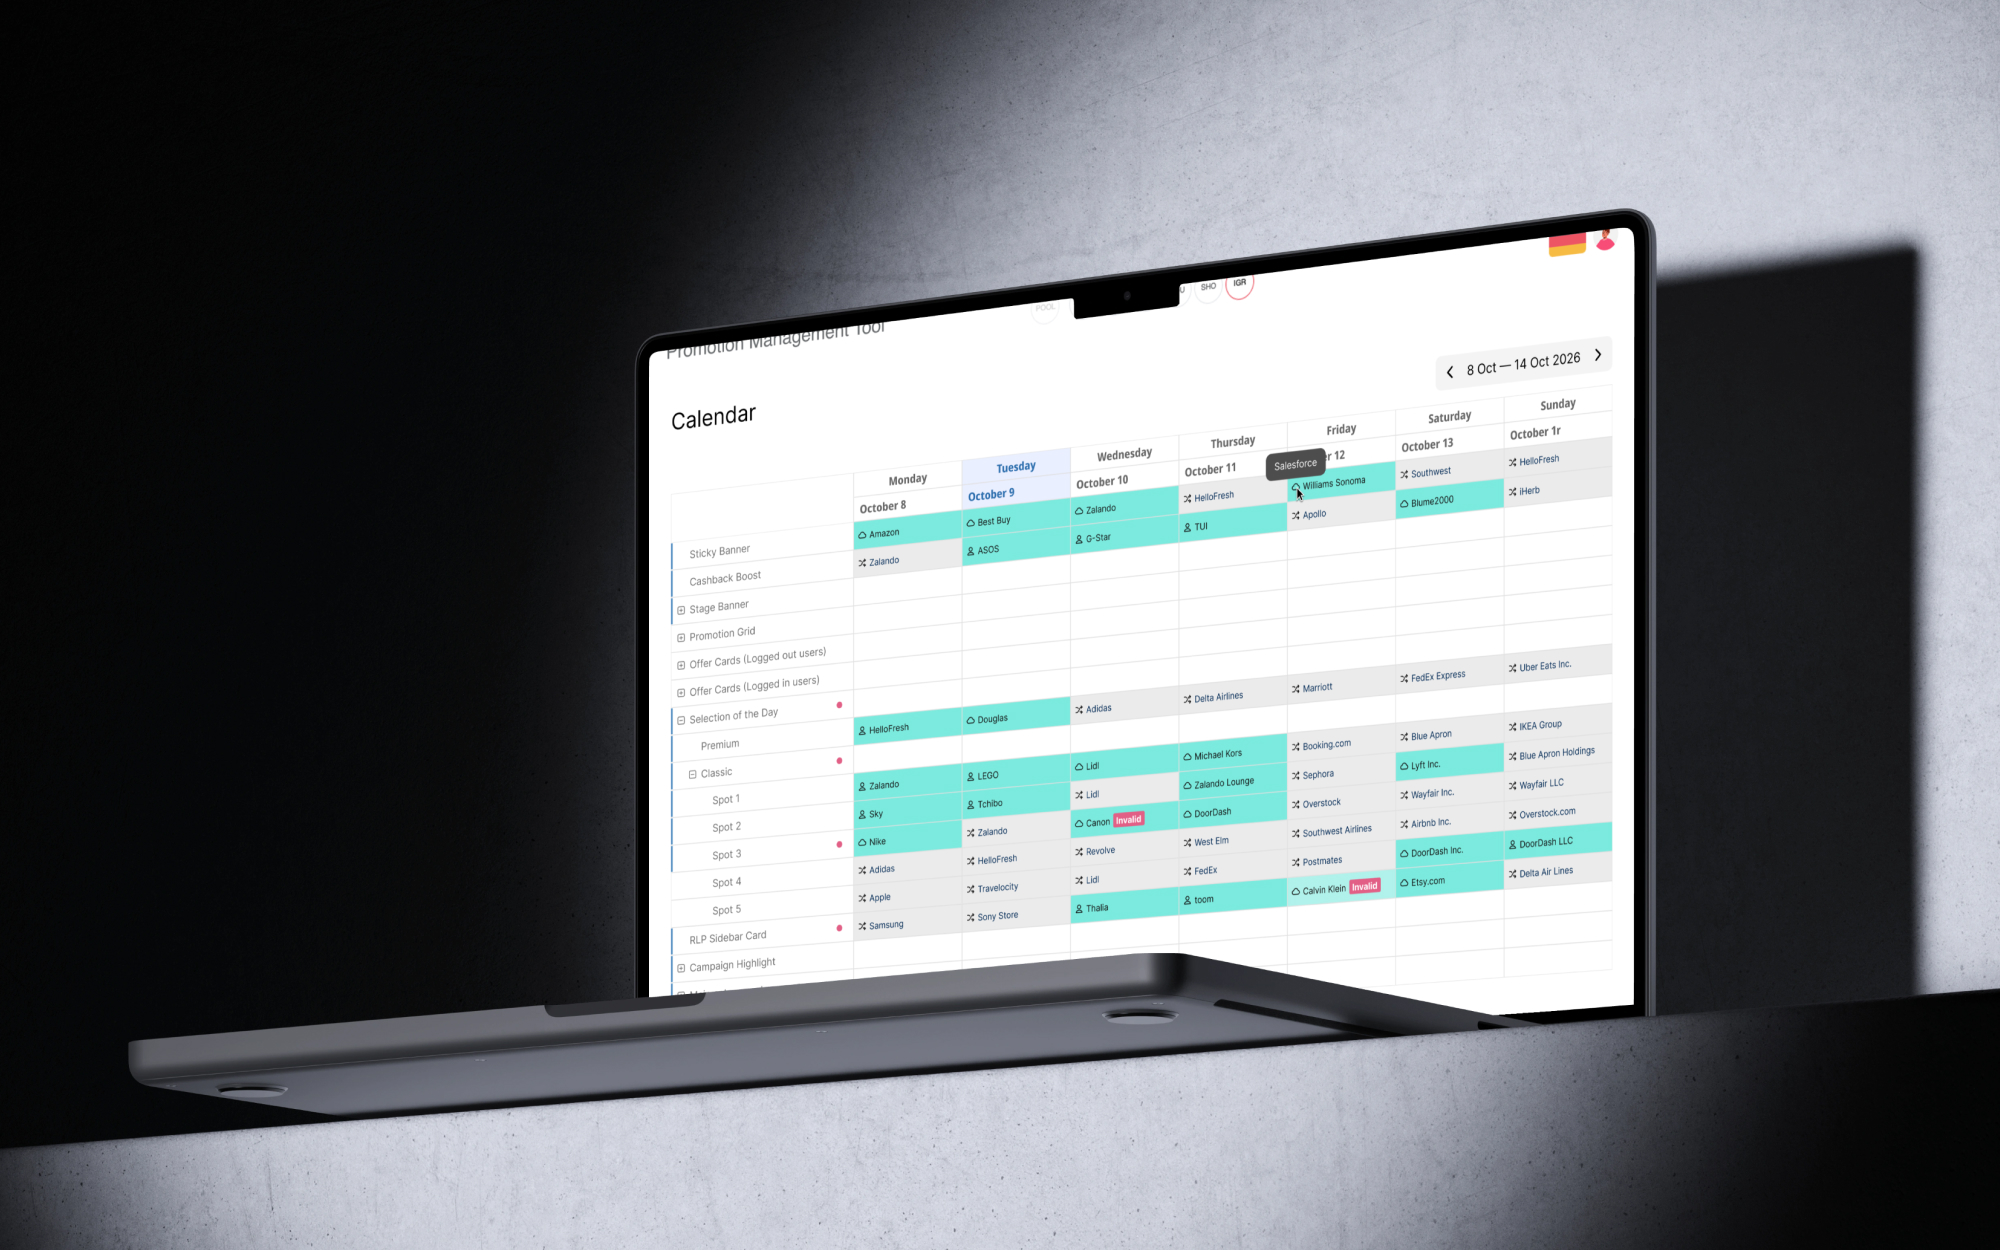
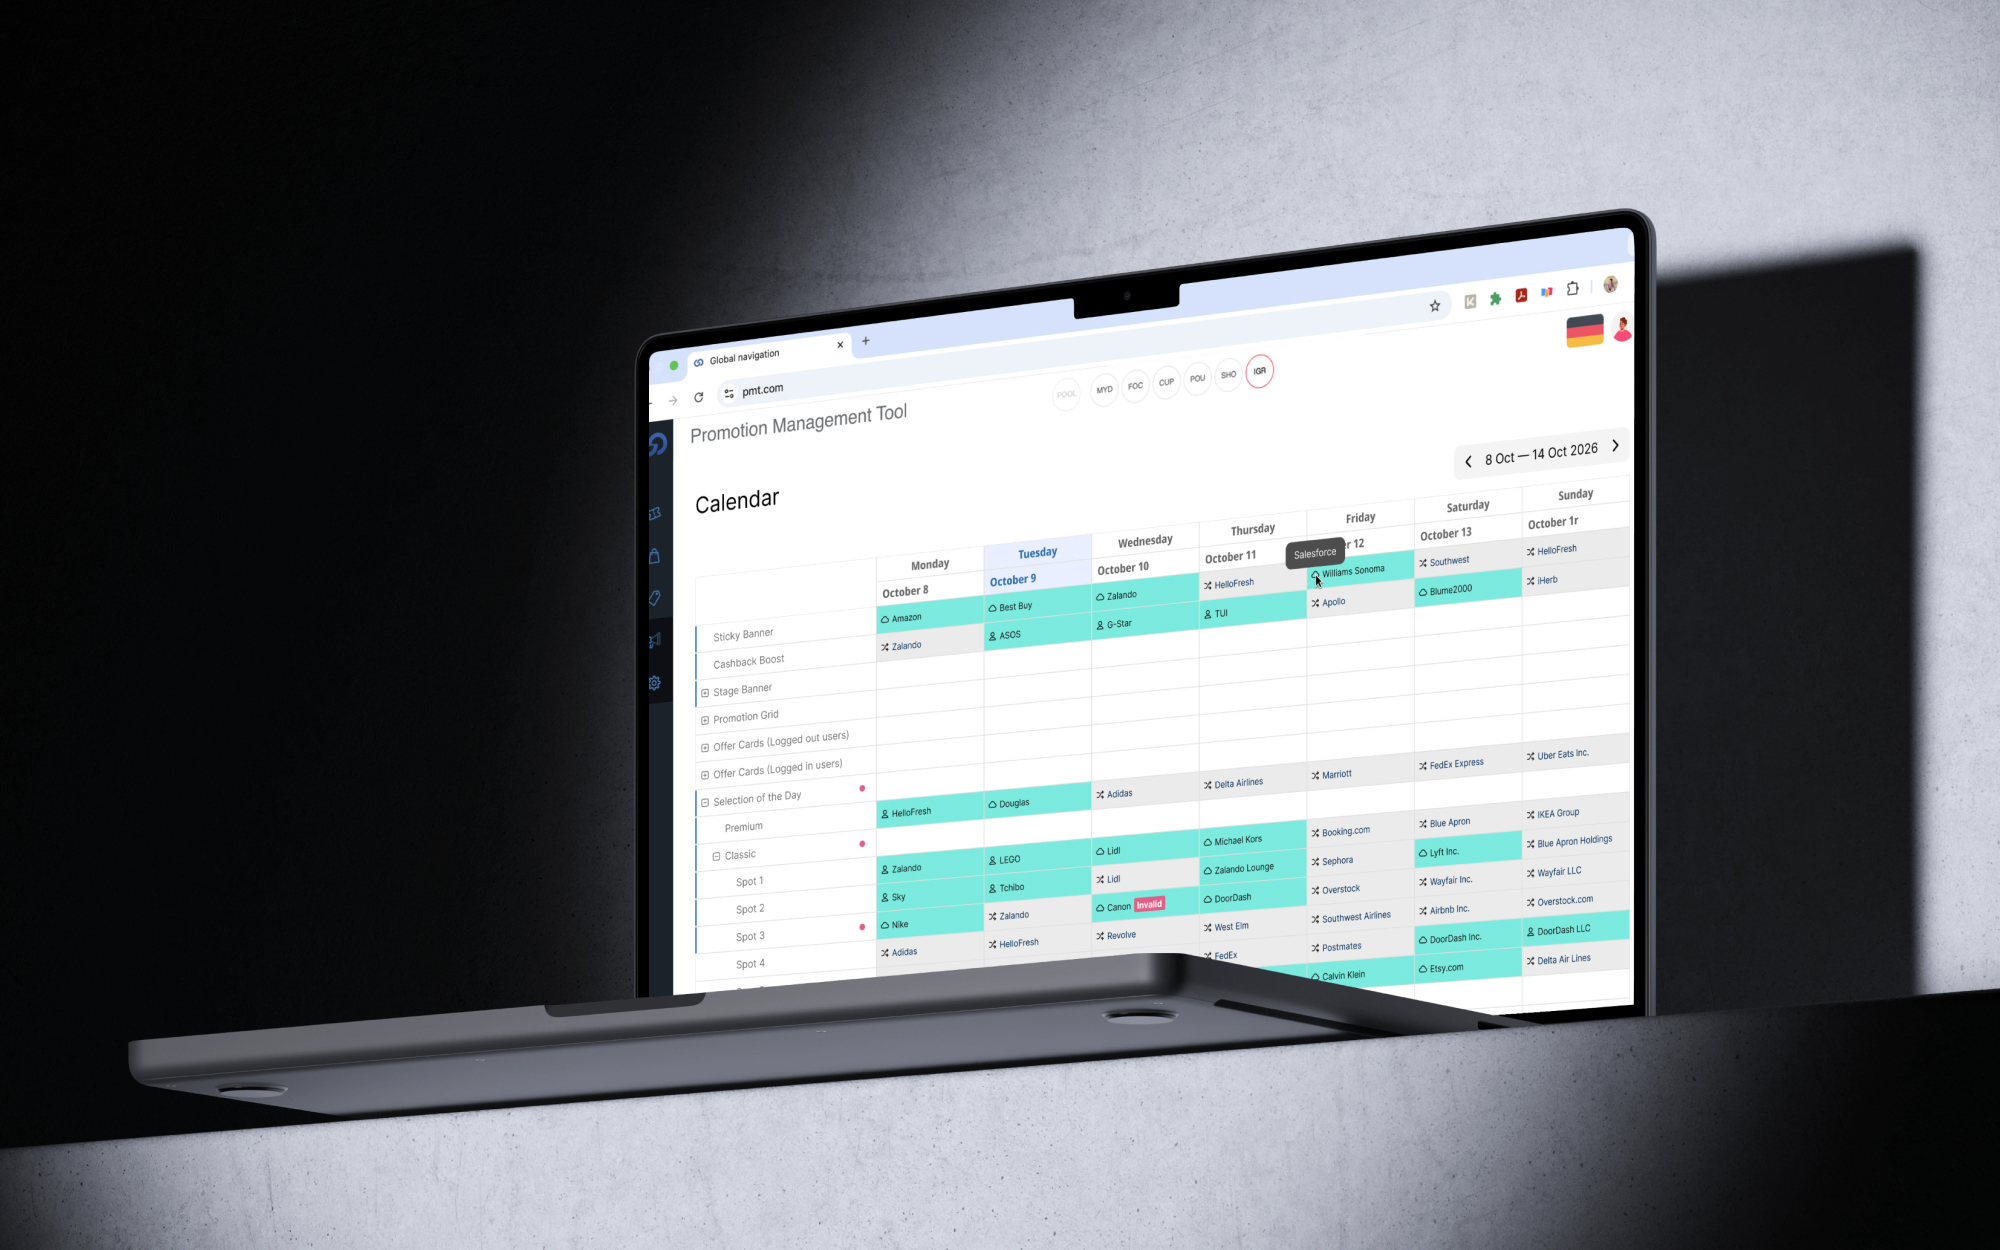
Add PMT to homepage and reorder project cards

diff --git a/index.html b/index.html
@@ -100,8 +100,26 @@
                 </div>
                 <!--PRODUCT DESIGN-->
                 <div id="summary" class="tabcontentC">
-                    <!-- FS invoices -->
+                    <!-- Atolls PMT -->
                     <div class="fl w-100 w-100-m w-100-l ph1 card-reveal ph2-l ph2-m pa2 pb4 dim-a">
+                        <a class="dt" href="/project-atolls-pmt" onclick="gtag('event', 'case_study_click', {'event_category': 'engagement', 'event_label': 'atolls_pmt'})">
+                            <img class="db w-100 mw10 br3 br4-l br4-m" alt="PMT promotional slot scheduling tool" src="/img/pmt-1.jpg">
+                        </a>
+                        <div class="pt2 pb2">
+                            <a class="link dark-gray f4 f4-l f4-m ex6 tl mv0" href="/project-atolls-pmt">iGraal
+                                Admin: Promotional scheduling tool</a>
+                            <p class="dt dark-gray f7 fw4 mt2 lh-title">
+                                <a class="f7 no-underline br-pill v-top bg-washed-yellow ph3 pv2 mt1 mr1 dib gray lh-solid">IMPROVMENT</a>
+                                <a class="f7 no-underline br-pill v-top bg-white ph3 pv2 mt1 mr1 dib gray lh-solid">UX</a>
+                                <a class="f7 no-underline br-pill v-top bg-white ph3 pv2 mt1 mr1 dib gray lh-solid">UI</a>
+                                <a class="f7 no-underline br-pill v-top bg-white ph3 pv2 mt1 mr1 dib gray lh-solid">B2B2C</a>
+                                <a class="f7 no-underline br-pill v-top bg-white ph3 pv2 mt1 mr1 dib gray lh-solid">AI</a>
+                                <a class="f7 no-underline br-pill v-top bg-white ph3 pv2 mt1 mr1 dib gray lh-solid">COMMERCIAL</a>
+                            </p>
+                        </div>
+                    </div>
+                    <!-- FS invoices -->
+                    <div class="fl w-100 w-100-m w-50-l ph1 card-reveal ph2-l ph2-m pa2 pb4 dim-a">
                         <a class="dt" href="/project-hubject-Invoice" onclick="gtag('event', 'case_study_click', {'event_category': 'engagement', 'event_label': 'hubject_invoice'})">
                             <img class="db w-100 mw10 br3 br4-l br4-m" alt="Hubject preview" src="/img/invoice-10.jpg">
                         </a>
@@ -136,12 +154,12 @@
                             </p>
                         </div>
                     </div>
-                    <!-- Hubject Dashboard -->
+                    <!-- Hubject Dashboard (hidden)
                     <div class="fl w-100 w-100-m w-50-l ph1 card-reveal ph2-l ph2-m pa2 pb4 dim-a">
                         <a class="dt" href="">
                             <img class="db w-100 mw10 br3 br4-l br4-m" alt="Hubject preview"
                                 src="/img/dasbhoard-103.jpg">
-                        </a><!--  -->
+                        </a>
                         <div class="pt2 pb2">
                             <a class="link dark-gray f4 f4-l f4-m ex6 tl mv0" href=""><span style="color:#1D91A2">Coming
                                     soon:</span> Hubject Charging: Welcome dashboards</a>
@@ -154,7 +172,7 @@
                                 <a class="f7 no-underline br-pill v-top bg-white ph3 pv2 mt1 mr1 dib gray lh-solid">MARKETPLACE</a>
                             </p>
                         </div>
-                    </div>
+                    </div> -->
                     <!-- toshi 
                 <div class="fl w-100 w-100-m w-50-l ph1 card-reveal ph2-l ph2-m pa2 pb4 dim-a">
                     <a class="dt" href="/project-toshi">
